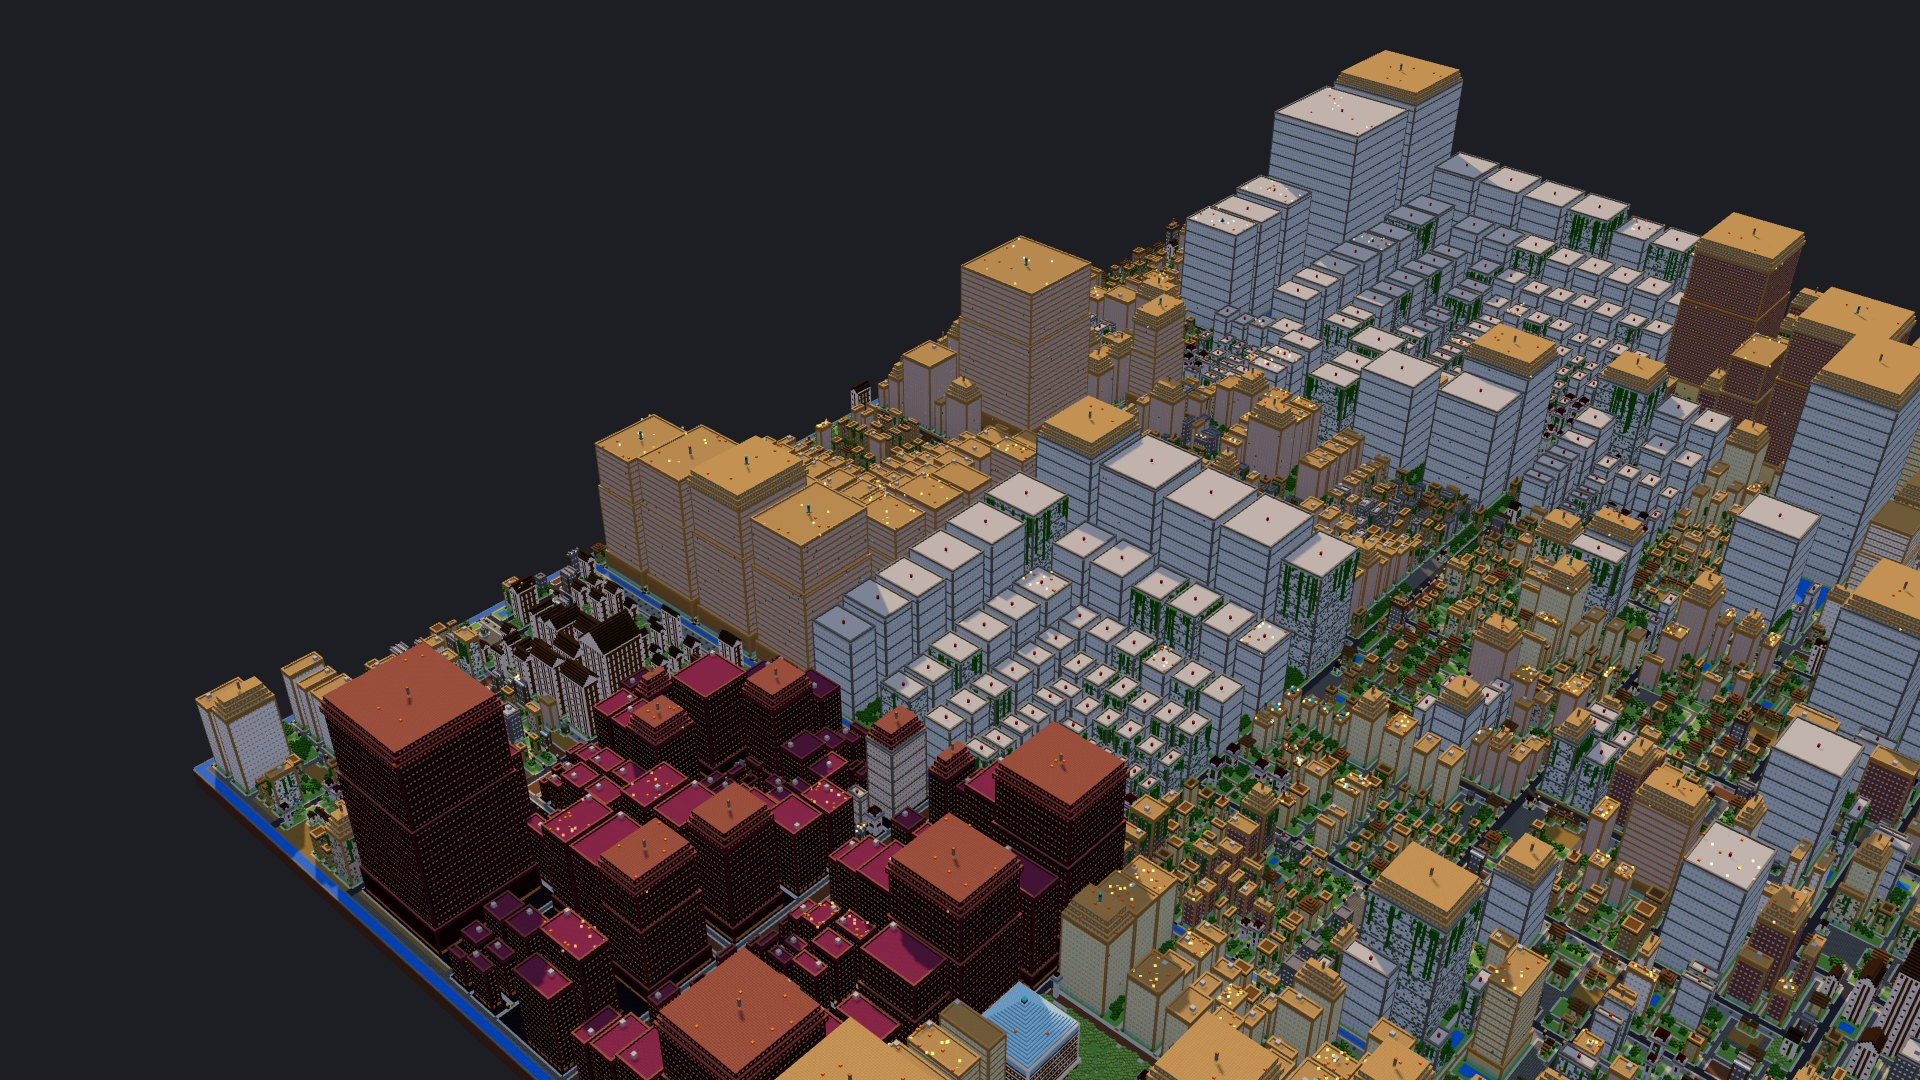
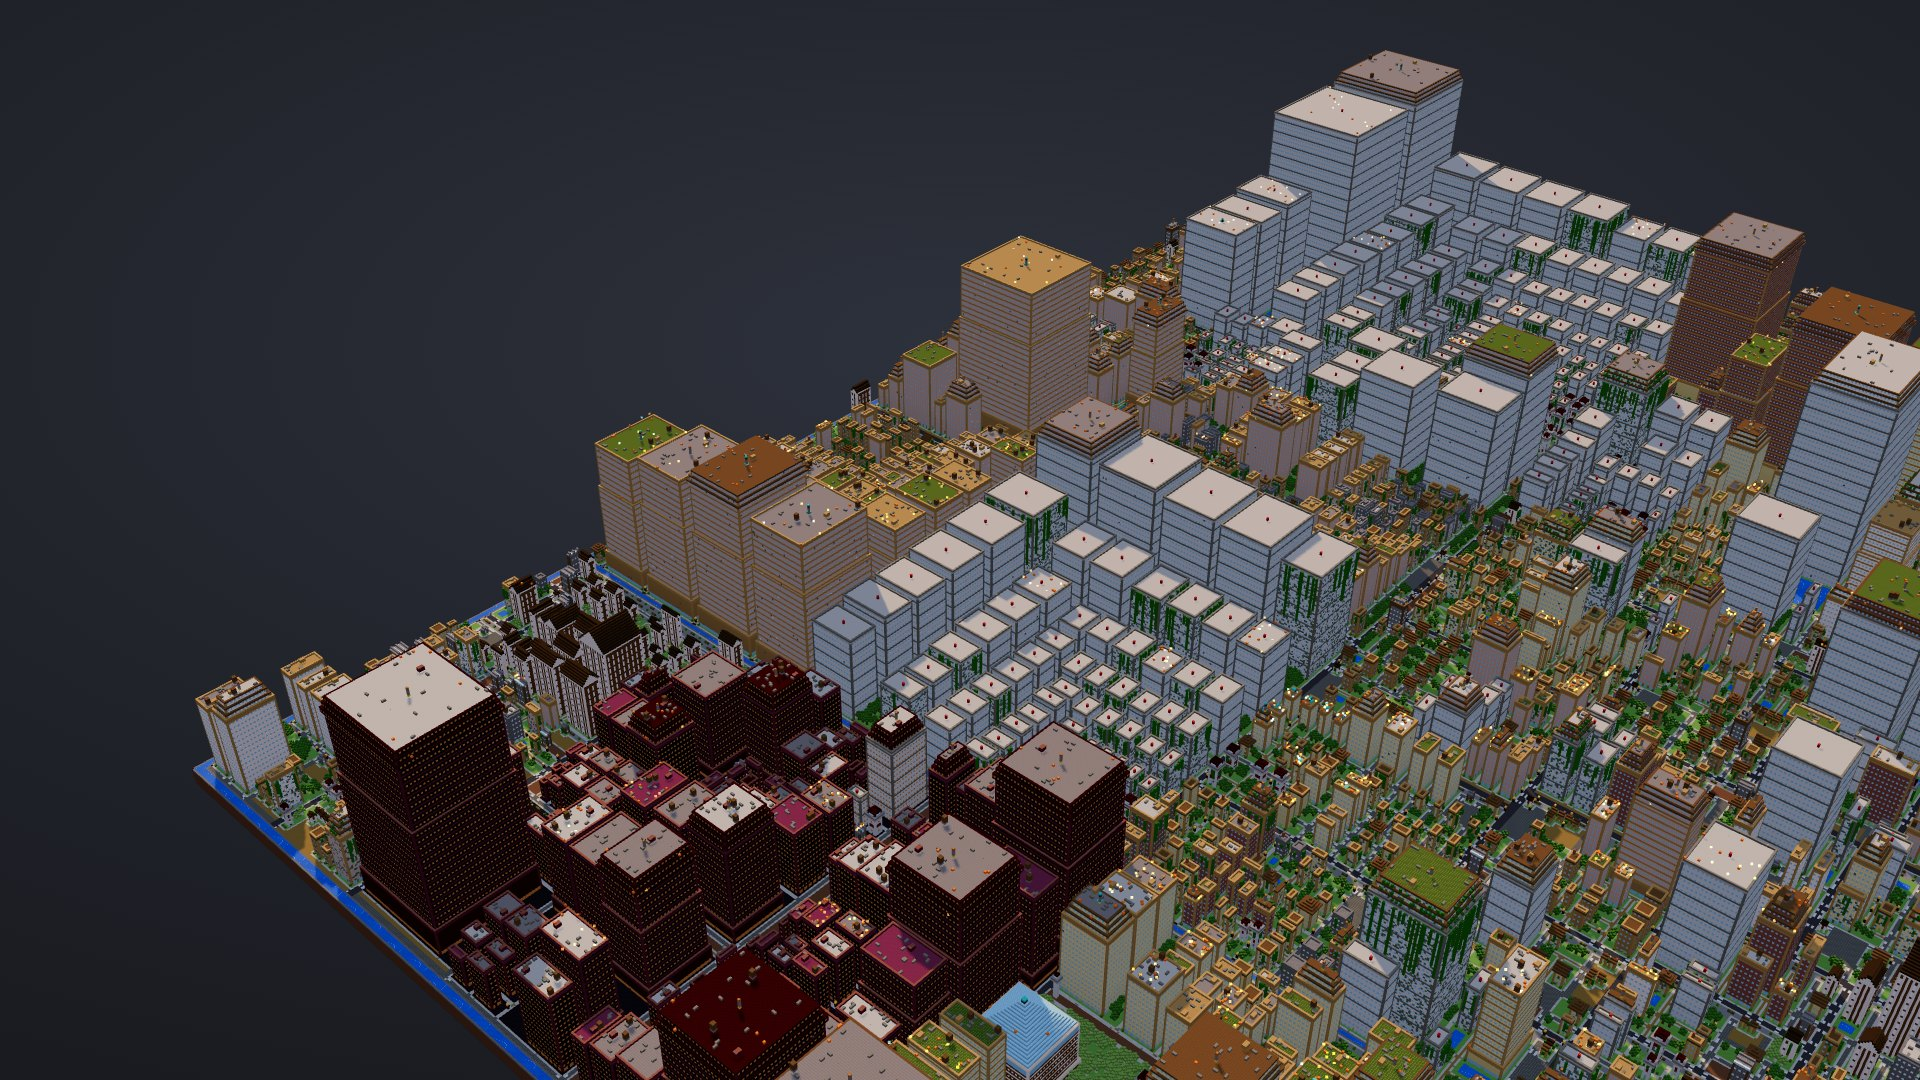
release: 0.7.0 (roofscapes, streets, water, night windows, mobile framing)

diff --git a/launch/devto-outline.md b/launch/devto-outline.md
@@ -1,0 +1,77 @@
+# dev.to article outline
+
+> **AI-assistance disclosure (required by dev.to):** dev.to's guidelines require that posts written with AI assistance say so. This outline was drafted with AI help. If any of the final article comes from it, keep a line like this at the top of the published post: *"This post was written with help from an AI assistant; the project, numbers and screenshots are my own."* Adjust the wording to match how much you actually used it.
+
+This is an outline, not a finished article. Write the prose yourself. Every number below comes from README.md, CHANGELOG.md or docs/; nothing else is claimed.
+
+## Working title options
+
+- "I turned Git repos into cities you can walk through"
+- "Painting 16×16 pixel textures in code: Repoville v0.6.0"
+- "React as a city: what fire, ruins and moss say about a codebase"
+
+Tags: `#typescript`, `#threejs`, `#visualization`, `#opensource`
+
+Cover image: `docs/media/react-hero-v2.png` or `docs/media/hero-react.jpg`. Embed `docs/media/flyover.gif` near the top.
+
+## 1. Hook (2–3 sentences)
+
+- Open on the flyover: the React repo as a city, flying into ReactFiberWorkLoop.js, a tower with soul fire (5,268 lines, 46 TODOs).
+- One line on what Repoville is: a CLI that turns a Git repo into a city in one HTML file.
+
+## 2. The mapping
+
+- Folders → districts (squarified treemap, downtown mirroring, canals, plazas with name signs).
+- Files → buildings in nine families (house, townhouse, mid-rise, tower, library, lighthouse, test lab, workshop, landmark).
+- Height formula: `min(250, 4 + round(4·√(lines/10)))` from non-blank lines. Why a square root (big files don't swallow the skyline).
+- Churn → fire (top 10 %) and soul fire (top 2 %). TODO density → ruins. Untouched for a year → moss.
+- Language themes: TS/JS plains, Rust nether, Python jungle, Go frozen peaks, etc.
+- The rule from VOICE.md: fire is activity, moss is stability, ruins are honest notes. Never mock a codebase.
+- Screenshot: legend in action, `docs/media/react-ui.jpg` and `docs/media/react-churn.jpg`.
+
+## 3. v0.6.0: pixel textures v2
+
+- Every block state gets a procedurally painted 16×16 tile: hue-shifted colour ramps, grass sides, log rings, per-family facades.
+- No Mojang assets bundled. Optional Minecraft textures can be switched on (`?mc=1`); the browser fetches them at runtime (© Mojang, not bundled).
+- `?textures=classic` restores the old look; GPUs with too few texture layers fall back automatically.
+- Before/after: `docs/media/textures-closeup.png`, `docs/media/minecraft-textures-closeup.png`, `docs/media/before-react-closeup.png` vs `docs/media/after-react-closeup.png`.
+- Your notes: how the ramps are built in code (pull from `viewer/` source and PR #54).
+
+## 4. Roofscapes (only if released by then)
+
+- Flat decks on mid-rises and towers get gravel, green or pale decks, a stair housing, HVAC units scaled to roof area, timber water tanks on wide roofs. Landmark crowns get roof-material caps.
+- Status: shipped in v0.7.0 (with crosswalks, plaza benches, animated water); visible in the live demos.
+- Image: `docs/media/roofscape.jpg`.
+
+## 5. Scaling to Linux
+
+- 95,948 files, LOD folds the deepest folders into landmark towers above 4,000 buildings, footprint capped at 1024×1024.
+- Measured on an Apple Silicon Mac: ~25 s warm render, 2.0 MB HTML, 57 fps without shadows (headless Chromium, 1280×720).
+- Blobless clone, only as far back as the churn window needs (731 MB, about 4.5 minutes cold).
+- Image: `docs/media/linux-merged-search.png`.
+
+## 6. Viewer features in one paragraph each (pick 2–3)
+
+- Night mode, History time-lapse (`--timelapse`), Diff view for branches (`--diff <ref>`), GitHub Action that publishes your repo's city to Pages.
+
+## 7. Minecraft export (short)
+
+- `.schem` v3 pasted with WorldEdit 7.3.19 on Paper 1.21.11; `.litematic` v6 round-trip checked with litemapy; world zip and live RCON building tested on Paper 1.21.11.
+- docs/PROGRESS.md lists re-running these e2e tests after the latest geometry changes as open. Re-run first or say when they were last run.
+- Include the disclaimer here: "Not an official Minecraft product. Not approved by or associated with Mojang or Microsoft."
+
+## 8. Try it
+
+- Demos: https://maximilianfeix.github.io/repoville/ (React, Linux, ripgrep, Flask, fzf, Repoville itself).
+- Command (README Quick start; needs Node.js 22+ and git):
+
+  ```sh
+  npx --package=https://github.com/maximilianfeix/repoville/releases/latest/download/repoville.tgz repoville facebook/react --open
+  ```
+
+- Honest limits: not on npm yet, Windows untested, Action not yet run on hosted runners.
+
+## 9. Close
+
+- What's next from the README roadmap: npm release, and coding agents walking the city as villagers.
+- Ask readers which repo to render next. Link the repo: https://github.com/maximilianfeix/repoville (MIT).

diff --git a/launch/reddit-coolgithubprojects.md b/launch/reddit-coolgithubprojects.md
@@ -1,0 +1,54 @@
+# r/coolgithubprojects draft (post yourself)
+
+Check the sub's current rules and flair before posting. Post as a link to the repo or as a text post with the repo link in the body. Attach `docs/media/flyover.gif` or `docs/media/hero-react.jpg` if the post type allows media.
+
+Language label: the code is TypeScript (83 tracked `.ts` files in src/, viewer/, test/ and config; the only non-TS scripts are two `.mjs` helpers: scripts/make-fixtures.mjs and test/e2e/paper.mjs), `package.json` ships a `repoville` bin, and it runs from the command line, so `[TypeScript CLI]` is accurate.
+
+---
+
+**Title:**
+
+```
+[TypeScript CLI] Repoville - turn any Git repo into a Minecraft-style city you can walk through in your browser
+```
+
+**Body:**
+
+```
+Repoville reads a Git repo on your machine and builds a voxel city from it:
+
+- folders are districts with roads, a plaza and a name sign
+- files are buildings; height comes from non-blank lines of code
+- the 10 % of files with the most commits in the last year burn on the roof, the top 2 % get soul fire
+- TODO/FIXME/HACK/XXX density turns that share of the walls into cracked bricks and cobwebs
+- files with no commit for over a year grow moss and vines
+
+Fire means activity, not bad code. Moss means stable, not rotten.
+
+The main output is one self-contained HTML file (React: 7,165 files, 1.9 MB). You can also export .schem / .litematic or a ready-to-open world and load it in Minecraft Java Edition.
+
+Recent: every block state gets its own procedurally painted 16x16 pixel tile (v0.6.0), and v0.7.0 adds rooftops with HVAC units and water tanks, crosswalks, plaza benches and animated water. No Mojang assets are bundled.
+
+Live demos (React, Linux, ripgrep, Flask, fzf, and Repoville itself):
+https://maximilianfeix.github.io/repoville/
+
+Run it on any repo (needs Node.js 22+ and git):
+
+    npx --package=https://github.com/maximilianfeix/repoville/releases/latest/download/repoville.tgz repoville facebook/react --open
+
+Use `.` for the current folder, owner/repo, or any git URL. Nothing is uploaded; the HTML contains paths and counts, never file contents.
+
+Honest limits:
+- Not on npm yet, so the command above runs the release tarball from GitHub.
+- Windows is untested (dev machine is macOS).
+- Big repos are folded: above 4,000 buildings the deepest folders merge into landmark towers, and the city is capped at 1024x1024 blocks. Linux (95,948 files) takes about 4.5 minutes to clone cold, then ~25 s to render warm.
+- The GitHub Action is tested locally but has not run on GitHub-hosted runners yet.
+
+MIT licensed: https://github.com/maximilianfeix/repoville
+
+Not an official Minecraft product. Not approved by or associated with Mojang or Microsoft.
+```
+
+Notes for you:
+- Roofscapes and street detail ship in v0.7.0 and are visible in the demos.
+- All numbers above are from README.md (demo table, "How big can a repo be?", legend) and CHANGELOG.md.

diff --git a/launch/x-thread.md b/launch/x-thread.md
@@ -1,21 +1,21 @@
-# X thread draft (v0.6.0)
+# X thread draft (v0.7.0)
 
 Post it yourself. Five posts: 1–4 are the thread, 5 is a reply under post 4 and is the only one with links.
 Character counts are plain text as written below (X counts any URL as 23, so post 5 is shorter on X).
 At most one emoji per post; none are used.
 
 Before posting:
-- Roofscapes (#58) landed on `main` after the v0.6.0 tag. They are not in the v0.6.0 changelog or release tarball, and the local site-dist demo build (05:38) predates the roofscape commit (05:55), so the live demos probably do not show them yet. Post 4 says "on main" for that reason. Re-render the demos (and cut a release) first if you want to say "in v0.6.0".
+- Roofscapes (#58) and street detail (#65) ship in v0.7.0; the live demos were re-rendered for it.
 - Media for post 1: `docs/media/flyover.gif` (5.9 MB; README says it is rendered with the v2 textures) or `site-dist/media/hero-loop.mp4` (3.6 MB). The MP4 plays better on X, but check it shows the v2 textures before using it; I did not verify that.
 
 ---
 
-**1/** (video attached: `docs/media/flyover.gif` or `site-dist/media/hero-loop.mp4`) — 223 chars
+**1/** (video attached: `docs/media/flyover.gif` or `site-dist/media/hero-loop.mp4`) — 216 chars
 
 ```
 This city is the React codebase. Folders are districts, files are buildings, and the roofs on fire are the files that changed most this year.
 
-Repoville v0.6.0 paints every block itself: 16×16 pixel tiles, no Mojang assets.
+Repoville paints every block itself: 16×16 pixel tiles, no Mojang assets.
 ```
 
 **2/** — 241 chars
@@ -36,10 +36,10 @@ New in v0.6.0: every block state gets its own procedurally painted 16×16 tile. 
 Still no Mojang assets in the file. ?textures=classic brings back the old look.
 ```
 
-**4/** — 234 chars
+**4/** — 228 chars
 
 ```
-Just landed on main: roofscapes. Flat roofs get gravel, green or pale decks, a stair housing, HVAC units scaled to the roof, and timber water tanks on wide roofs.
+New in v0.7.0: roofscapes. Flat roofs get gravel, green or pale decks, a stair housing, HVAC units scaled to the roof, and timber water tanks on wide roofs.
 
 Landmark crowns got roof caps, so the skyline is no longer one colour.
 ```
@@ -55,4 +55,4 @@ https://github.com/maximilianfeix/repoville
 https://maximilianfeix.github.io/repoville/
 ```
 
-Sources: README (legend, flyover alt text: ReactFiberWorkLoop.js 5,268 lines, soul fire, 46 TODOs; height formula gives 96 blocks for 5,268 lines), CHANGELOG 0.6.0, commit ae34373 (roofscapes).
+Sources: README (legend, flyover alt text: ReactFiberWorkLoop.js 5,268 lines, soul fire, 46 TODOs; height formula gives 96 blocks for 5,268 lines), CHANGELOG 0.6.0 and 0.7.0.

diff --git a/launch/show-hn.md b/launch/show-hn.md
@@ -27,7 +27,7 @@ Show HN: Repoville – turn any Git repo into a walkable Minecraft-style city
    - Say it plainly: fire is activity, not bad code; moss is stable, not rotten.
 
 3. **What's new in v0.6.0:** procedural pixel textures v2. Every block state gets its own 16×16 tile with hue-shifted colour ramps, grass sides, log rings and per-family facades. No Mojang assets bundled; `?textures=classic` restores the old look.
-   - Roofscapes (flat roofs with gravel/green decks, HVAC units, water tanks) are on `main` but landed after the v0.6.0 tag and are not in the demos yet. Mention them as "just landed" or leave them out.
+   - v0.7.0 adds roofscapes (gravel/green decks, HVAC units, water tanks), crosswalks and plaza benches, animated water; the demos show them.
 
 4. **Output:**
    - One self-contained HTML file with a three.js viewer: search, building cards, metric views (churn / age / TODO), night mode, History time-lapse, Diff view for branches.

diff --git a/CHANGELOG.md b/CHANGELOG.md
@@ -1,5 +1,11 @@
 # Changelog
 
+## 0.7.0 — 2026-10-16
+
+- **Roofscapes:** flat roofs get gravel, green or pale decks, stair housings, HVAC units scaled to the roof and timber water tanks; landmark crowns get roof-material caps.
+- **Streets:** zebra crossings at junctions, worn sidewalk slabs, plaza benches and lawn beds.
+- **Viewer:** animated pixel-art water ripples (still under reduced motion), warmer night windows, a soft day backdrop (also in Photo exports), district labels no longer overlap, and the whole city fits on portrait phone screens.
+
 ## 0.6.0 — 2026-10-16
 
 - **Pixel textures v2** in the viewer: every block state gets a procedurally painted 16×16 tile (hue-shifted colour ramps, grass sides, log rings, per-family facades). Still no Mojang assets bundled. `?textures=classic` restores the old look; GPUs with too few texture layers fall back automatically.
